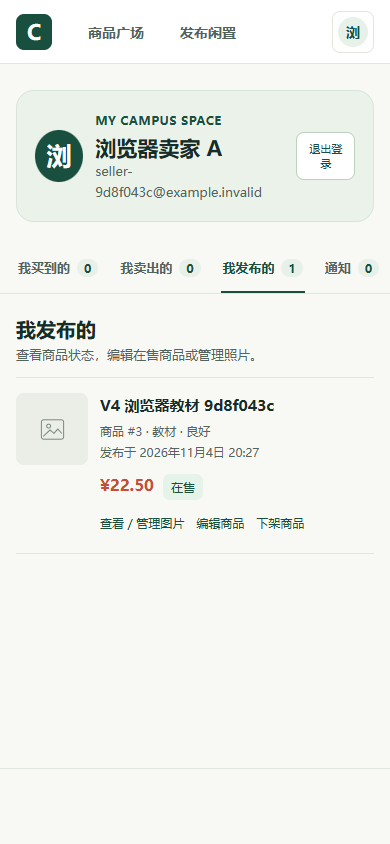
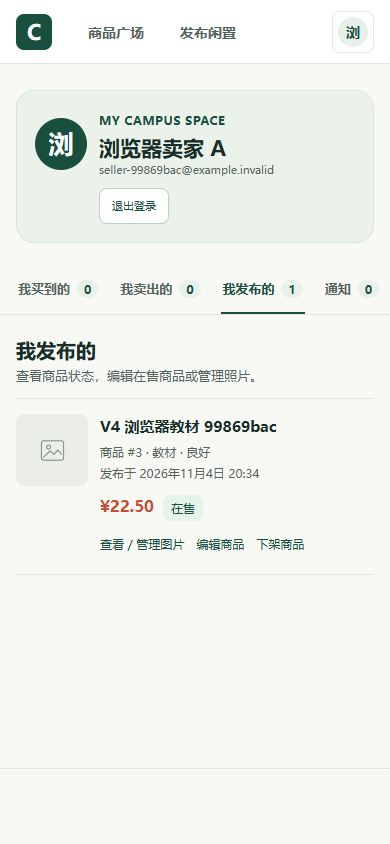
Polish mobile profile actions and verify layout

diff --git a/src/main/resources/static/styles.css b/src/main/resources/static/styles.css
@@ -386,10 +386,11 @@ button { touch-action: manipulation; }
 .timeline-item time, .timeline-item p { color: var(--color-muted); }
 .danger-outline { border-color: #eac8bd; color: var(--ct-error); }
 @media (max-width: 740px) {
-  .profile-banner { min-height: 120px; padding: 18px; gap: 12px; }
+  .profile-banner { display: grid; grid-template-columns: 52px minmax(0,1fr); min-height: 120px; padding: 18px; gap: 9px 12px; }
   .profile-banner .avatar.large { width: 52px; height: 52px; }
   .profile-banner h1 { font-size: 21px; }
-  .profile-banner p { overflow-wrap: anywhere; }
+  .profile-banner p { overflow-wrap: anywhere; font-size: 11px; }
+  .profile-banner .white-outline { grid-column: 2; justify-self: start; min-height: 36px; margin: 0; padding: 7px 12px; white-space: nowrap; }
   .profile-tabs { gap: 18px; margin: 0 -16px; padding: 0 16px; }
   .profile-tab { font-size: 13px; }
   .profile-pane-heading { display: block; margin: 22px 0 12px; }

diff --git a/src/test/java/com/campus/campus_trade_backend/V4BrowserFlowTests.java b/src/test/java/com/campus/campus_trade_backend/V4BrowserFlowTests.java
@@ -425,7 +425,7 @@ class V4BrowserFlowTests {
 
     private void captureUi(Page page, String name) {
         String phase = System.getProperty("campus.ui.capture");
-        if (phase == null || !phase.matches("before|after|final")) return;
+        if (phase == null || !phase.matches("before|after|final|polish")) return;
         String only = System.getProperty("campus.ui.only");
         if (only != null && !java.util.Arrays.asList(only.split(",")).contains(name)) return;
         Path directory = Path.of("docs", "ui-screenshots", phase);
@@ -448,6 +448,10 @@ class V4BrowserFlowTests {
                             "node => node.getBoundingClientRect().height / node.getBoundingClientRect().width");
                     assertTrue(cardAspect.doubleValue() < 2.1, "商品卡片不应被异常拉伸");
                     assertThat(page.locator("#products .product-cover .photo-empty").first()).isVisible();
+                }
+                if ("profile".equals(name) && viewport[0] <= 740) {
+                    Number logoutHeight = (Number) page.locator("#logout").evaluate("node => node.getBoundingClientRect().height");
+                    assertTrue(logoutHeight.doubleValue() <= 48, "手机端退出按钮不应换行拉高");
                 }
                 if (name.startsWith("chat")) {
                     Number messagesHeight = (Number) page.locator("#chat-messages").evaluate("node => node.getBoundingClientRect().height");

diff --git a/docs/UI_PRODUCT_REDESIGN.md b/docs/UI_PRODUCT_REDESIGN.md
@@ -17,7 +17,7 @@
 
 ## 浏览器截图对比
 
-截图由 `V4BrowserFlowTests` 在真实 Edge + Spring Boot 测试服务器上生成；测试使用隔离 H2 与自动创建的双账号。图中的商品名称、邮箱和订单属于测试数据。`before/` 为改造前，`final/` 为最终版；最终版每个状态包含 390、768、1280、1440px。
+截图由 `V4BrowserFlowTests` 在真实 Edge + Spring Boot 测试服务器上生成；测试使用隔离 H2 与自动创建的双账号。图中的商品名称、邮箱和订单属于测试数据。`before/` 为改造前，`final/` 为最终版；个人中心在最终复核后修复了手机端退出按钮换行并重新截入 `final/`。每个状态包含 390、768、1280、1440px。
 
 | 页面 | 改造前 | 最终版 |
 |---|---|---|
@@ -25,7 +25,7 @@
 | 商品广场 | [390px](ui-screenshots/before/plaza-390.png) · [1280px](ui-screenshots/before/plaza-1280.png) | [390px](ui-screenshots/final/plaza-390.png) · [1280px](ui-screenshots/final/plaza-1280.png) |
 | 商品详情 | [390px](ui-screenshots/before/detail-390.png) · [1280px](ui-screenshots/before/detail-1280.png) | [390px](ui-screenshots/final/detail-390.png) · [1280px](ui-screenshots/final/detail-1280.png) |
 | 发布商品 | [390px](ui-screenshots/before/publish-390.png) · [1280px](ui-screenshots/before/publish-1280.png) | [390px](ui-screenshots/final/publish-390.png) · [1280px](ui-screenshots/final/publish-1280.png) |
-| 个人中心 | [390px](ui-screenshots/before/profile-390.png) · [1280px](ui-screenshots/before/profile-1280.png) | [390px](ui-screenshots/final/profile-390.png) · [1280px](ui-screenshots/final/profile-1280.png) |
+| 个人中心 | [390px](ui-screenshots/before/profile-390.png) · [1280px](ui-screenshots/before/profile-1280.png) | [390px 最终复核](ui-screenshots/final/profile-390.png) · [1280px 最终复核](ui-screenshots/final/profile-1280.png) |
 | 订单详情 | [390px](ui-screenshots/before/order-390.png) · [1280px](ui-screenshots/before/order-1280.png) | [390px](ui-screenshots/final/order-390.png) · [1280px](ui-screenshots/final/order-1280.png) |
 | 私信 | [390px](ui-screenshots/before/chat-390.png) · [1280px](ui-screenshots/before/chat-1280.png) | [390px 消息会话](ui-screenshots/final/chat-filled-390.png) · [1280px 消息会话](ui-screenshots/final/chat-filled-1280.png) |
 
